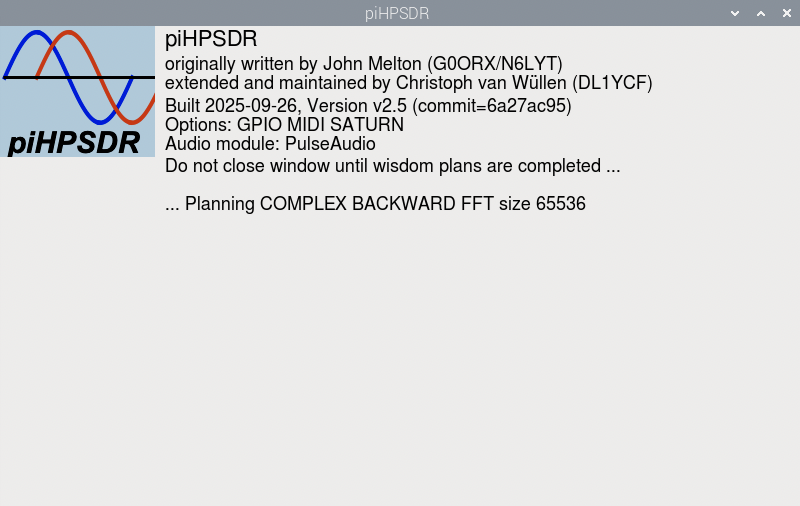
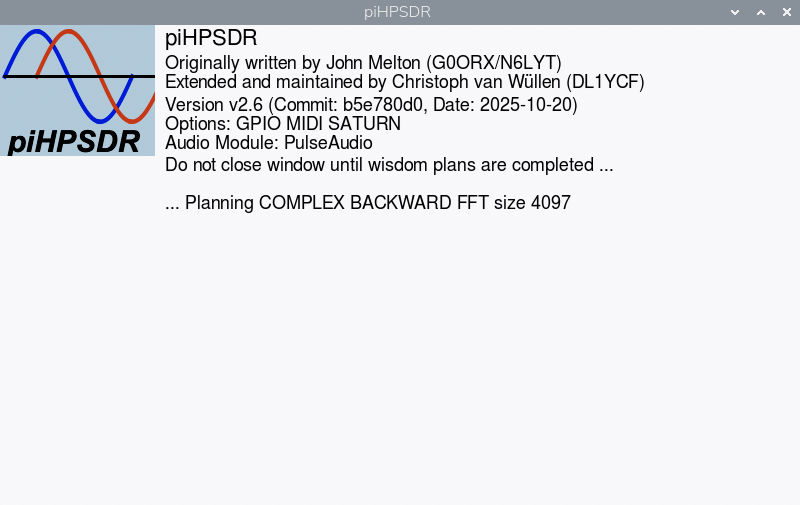
update

diff --git a/release/LatexManual/piHPSDR-Manual.tex b/release/LatexManual/piHPSDR-Manual.tex
@@ -242,7 +242,8 @@ into the RJ45 jacks of the computer and of the radio (see Appendix
 \end{figure}
 
 If the \pH program is started for the first time, it opens a window that looks like Fig. \ref{fig:Planning}.
-Besides stating a version number and the date \pH was built, the list of optional features is
+Besides stating a version number, and the ID string and the date of latest commit (change)
+applied to the repository from which \pH was built, the list of optional features is
 documented (compile-time options,
 in this case  GPIO, MIDI, SATURN) as well as the audio module used (here: PulseAudio) for attaching headphones
 or microphones to the host computer running \pH. Information about  compile-time options and how to add
@@ -1247,21 +1248,24 @@ The about menu gives you some information about \pH, first the original author,
 John Melton,
 and an (incomplete) list
 of persons who contributed to the code, and then a statement which version of \pH
-is working here, and when it has been compiled. Here you also find the version number of the WDSP
+is working here, and the ID string and the data of the latest commit (change)
+applied to the repository from which \pH was built.
+ Here you also find the version number of the WDSP
 library which is the ,,engine''
 running under the hood, and which does nearly all of the signal processing. If you file a bug report,
 this is very important information so you should always include a screen shot of the \bltt{About}
 menu when reporting problems. Of particular importance is the so-called \rett{commit},
-this hexadecimal number (here: a1bbb70) identifies the exact status of the source code files
+this hexadecimal number (here: b5e780d0) identifies the exact status of the source code repository
 when the program has been compiled. If a string \texttt{-dirty} is appended to the version number
-(here: v2.5, that is, \textit{not} dirty) this means that one or more files have been locally  modified
-and do not match the commit, and problem reports from a ,,dirty'' version are difficult to handle.
+(here: v2.6, that is, \textit{not} dirty) this means that one or more files have been locally  modified
+and do not match the commit, and problem reports from a ,,dirty'' version are difficult to handle
+since it is not documented what has been changed locally.
 
 Finally, there is
 some data on the radio, namely the device type and version numbers, and which protocol is running.
 For diagnostic purposes, you also see the MAC address of the radio, its IP address (in the
-example shown, 192.168.8.10) and the
-IP address of the computer running \pH (here 192.168.8.1, this is the IP address of the network
+example shown, 192.168.8.2) and the
+IP address of the computer running \pH (here 192.168.8.3, this is the IP address of the network
 interface that actually does the connection with the radio).
 The radio's IP and MAC address are also displayed in the \pH main window title bar,
 the MAC address is of interest since the radio-specific
